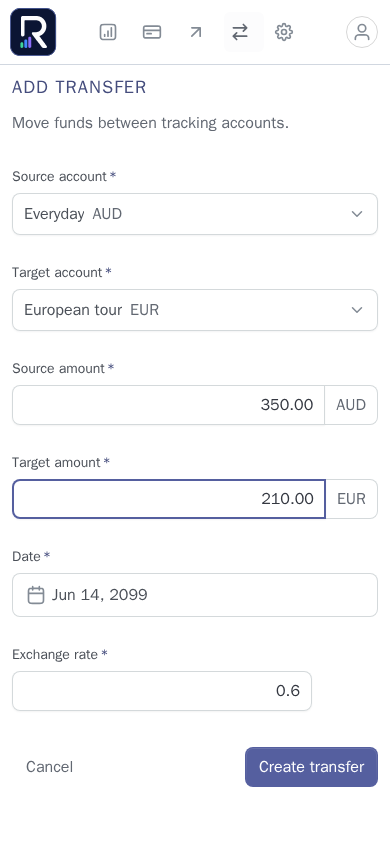
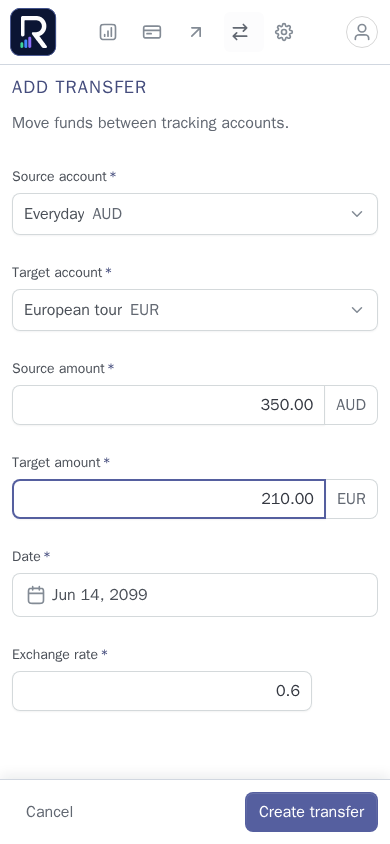
fix: improve mobile form interactions

Changed region(s): [[0.6154, 0.8626, 0.9846, 0.9858], [0.0615, 0.955, 0.1846, 0.9858], [0.0615, 0.8934, 0.1846, 0.9242]]

diff --git a/ui/src/components/SearchableDropdown.tsx b/ui/src/components/SearchableDropdown.tsx
@@ -1,5 +1,5 @@
 import { ChevronDown, SearchLg } from "@untitledui/icons";
-import { useEffect, useRef, useState } from "react";
+import { type RefObject, useEffect, useRef, useState } from "react";
 import {
   Button as AriaButton,
   Autocomplete,
@@ -48,7 +48,8 @@ export function SearchableDropdown({
   const [isOpen, setIsOpen] = useState(false);
   const [search, setSearch] = useState("");
   const [activeKey, setActiveKey] = useState<string>();
-  const searchInputRef = useDropdownSearchFocus(isOpen);
+  const mobileFocusRef = useRef<HTMLDivElement>(null);
+  const searchInputRef = useDropdownSearchFocus(isOpen, mobileFocusRef);
   const selectedItem = items.find((item) => item.id === selectedKey);
   const visibleItems = items.filter((item) =>
     filterDropdownItem(getItemTextValue(item), search),
@@ -112,6 +113,8 @@ export function SearchableDropdown({
             filter={filterDropdownItem}
           >
             <div
+              ref={mobileFocusRef}
+              tabIndex={-1}
               className="searchable-dropdown-search-wrap"
               onKeyDownCapture={(event) => {
                 if (event.key === "Escape") {
@@ -191,7 +194,8 @@ export function SearchableMultiDropdown({
   const [search, setSearch] = useState("");
   const [activeKey, setActiveKey] = useState<string>();
   const [rowDomIds, setRowDomIds] = useState<Record<string, string>>({});
-  const searchInputRef = useDropdownSearchFocus(isOpen);
+  const mobileFocusRef = useRef<HTMLDivElement>(null);
+  const searchInputRef = useDropdownSearchFocus(isOpen, mobileFocusRef);
   const allItemKeys = items.map((item) => item.id);
   const visibleItems = items.filter((item) =>
     filterDropdownItem(getItemTextValue(item), search),
@@ -276,6 +280,8 @@ export function SearchableMultiDropdown({
           className="searchable-dropdown-popover transaction-filter-select-popover"
         >
           <div
+            ref={mobileFocusRef}
+            tabIndex={-1}
             onKeyDownCapture={(event) => {
               if (event.key === "Escape") {
                 event.preventDefault();
@@ -372,7 +378,10 @@ export function SearchableMultiDropdown({
   );
 }
 
-function useDropdownSearchFocus(isOpen: boolean) {
+function useDropdownSearchFocus(
+  isOpen: boolean,
+  mobileFocusRef: RefObject<HTMLDivElement | null>,
+) {
   const searchInputRef = useRef<HTMLInputElement>(null);
 
   useEffect(() => {
@@ -380,11 +389,15 @@ function useDropdownSearchFocus(isOpen: boolean) {
       return;
     }
 
-    const focusFrame = requestAnimationFrame(() =>
-      searchInputRef.current?.focus(),
-    );
+    const focusFrame = requestAnimationFrame(() => {
+      if (window.matchMedia("(min-width: 768px)").matches) {
+        searchInputRef.current?.focus();
+      } else {
+        mobileFocusRef.current?.focus({ preventScroll: true });
+      }
+    });
     return () => cancelAnimationFrame(focusFrame);
-  }, [isOpen]);
+  }, [isOpen, mobileFocusRef]);
 
   return searchInputRef;
 }

diff --git a/ui/src/styles.css b/ui/src/styles.css
@@ -2678,9 +2678,32 @@ input {
 
   .create-user-form,
   .edit-user-form,
-  .profile-form,
-  .tracking-account-form {
+  .profile-form {
     grid-template-columns: 1fr;
+  }
+
+  .tracking-account-form,
+  .create-user-form,
+  .edit-user-form {
+    grid-template-columns: 1fr;
+    padding-bottom: calc(68px + env(safe-area-inset-bottom));
+  }
+
+  .tracking-account-actions,
+  .create-user-actions,
+  .edit-user-actions {
+    position: fixed;
+    right: 0;
+    bottom: 0;
+    left: 0;
+    z-index: 40;
+    align-items: center;
+    border-top: 1px solid #d1d7e0;
+    background: #ffffff;
+    padding: 12px max(12px, env(safe-area-inset-right))
+      calc(12px + env(safe-area-inset-bottom))
+      max(12px, env(safe-area-inset-left));
+    box-shadow: 0 -4px 12px rgba(16, 24, 40, 0.08);
   }
 
   .transaction-recurrence-controls {

diff --git a/src/test/kotlin/io/orangebuffalo/renalo/SettingsPagePlaywrightTest.kt b/src/test/kotlin/io/orangebuffalo/renalo/SettingsPagePlaywrightTest.kt
@@ -167,6 +167,9 @@ class SettingsPagePlaywrightTest : IntegrationTestSupport() {
         page.navigate(server.url.toString() + "/settings/accounts/create")
 
         assertThat(page.getByRole(AriaRole.HEADING, Page.GetByRoleOptions().setName("Add new account"))).isVisible()
+        page.getByRole(AriaRole.BUTTON, Page.GetByRoleOptions().setName("Currency")).click()
+        assertThat(page.getByLabel("Search currency")).not().isFocused()
+        page.keyboard().press("Escape")
         page.locator(".tracking-account-default-checkbox").click()
         assertThat(page.getByLabel("Default account")).isChecked()
         page.getByLabel("Name").fill("Cash")

diff --git a/AGENTS.md b/AGENTS.md
@@ -70,13 +70,14 @@
 - Button usage should follow the documented shape: `color`, `size`, optional `iconLeading`/`iconTrailing`, `isDisabled`, and `isLoading`.
 - Input usage should follow the documented shape: `label`, `name`, `size`, optional `hint`, `isInvalid`, `icon`, `tooltip`, and `shortcut` when needed.
 - New standard forms must use the full `standard-page-surface` content width, matching table widths. Do not cap standard forms with narrow `max-width` values. Use a full-width `standard-page-panel` section, a two-column desktop grid, single-column mobile layout, consistent 28px/32px field gaps, and footer actions split with cancel/back on the left and primary save/create on the right. Always preserve the two-column desktop grid, even when a form has only one input; add an empty second-column spacer rather than widening the single input.
+- Standard single-form pages must keep their full cancel/submit action bar fixed to the bottom of the mobile viewport with safe-area padding and reserve enough form space to prevent the bar from covering the final fields. Do not apply this pattern to pages with multiple independent forms whose action bars would overlap.
 - Standard text inputs and dropdowns should be capped at 300px wide only within two-column form grids (`.tracking-account-form`); outside form grids there is no default cap. Money inputs are capped at 200px wide within form grids. On mobile, all max-width caps are removed.
 - Forms that load existing records or required reference data must keep the form surface in place and block it with the shared `FormLoadingOverlay` using the Untitled line spinner without text.
 - Empty table states must use the shared `TableEmptyState` pattern with the search icon card and bold empty-state copy, not plain loading-style text.
 - Table loading states must use the shared `TableLoadingState` spinner with centered padding, not inline loading text.
 - Table row action groups must use the shared `TableRowActions` helpers so edit/delete icon colors and spacing stay consistent.
 - For searchable selects where search is part of the closed field, use documented Untitled `Select.ComboBox` and `Select.Item`; for dropdowns where search appears only after opening, follow the Untitled dropdown `Search simple` pattern with a regular trigger and search input inside the popover.
-- Search inputs rendered inside an opened dropdown popover must receive focus automatically so users can type immediately after opening the dropdown.
+- Search inputs rendered inside an opened dropdown popover must receive focus automatically on desktop so users can type immediately; do not focus them automatically on mobile because that opens the software keyboard.
 - Searchable dropdown keyboard navigation keeps DOM focus in the search input while Arrow Up and Arrow Down change the background-highlighted active option through `aria-activedescendant`; Enter selects the active option, with the first visible option active initially.
 - Overview **More filters** controls must overlay the active-count badge on the filter icon so it does not affect the trigger width and an open desktop popover stays anchored; on mobile, render the filters as a closable full-page modal.
 - Required Untitled UI support dependencies include React Aria components, Tailwind utilities, `tailwind-merge`, and `tailwindcss-animate`; keep them in `ui/package.json` when generated components need them.
